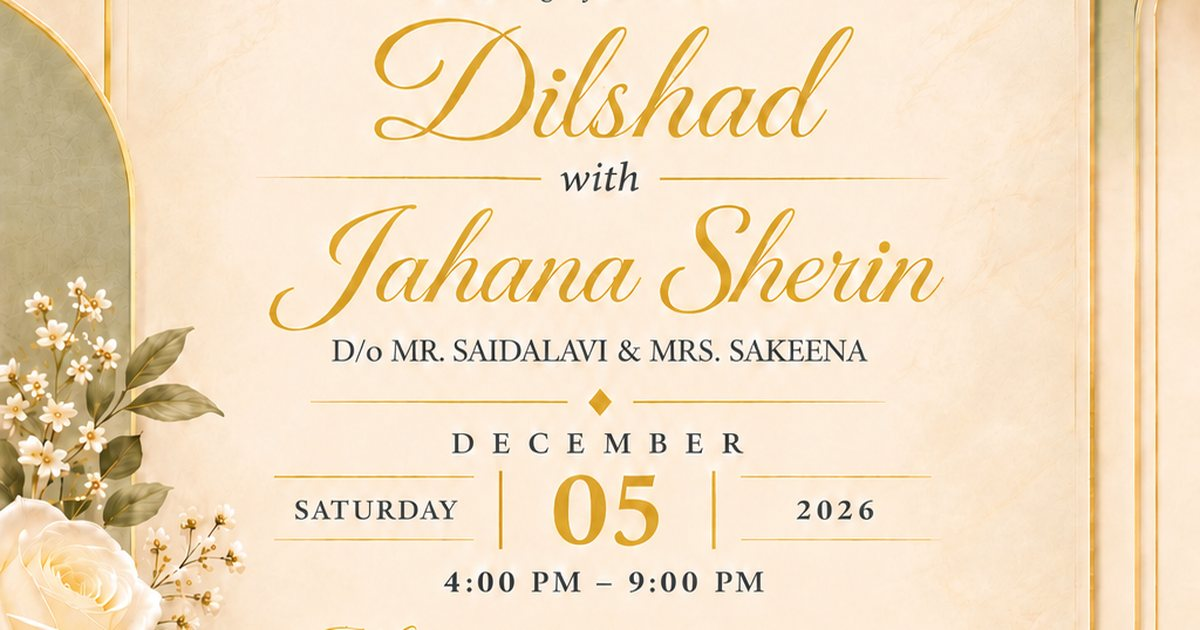
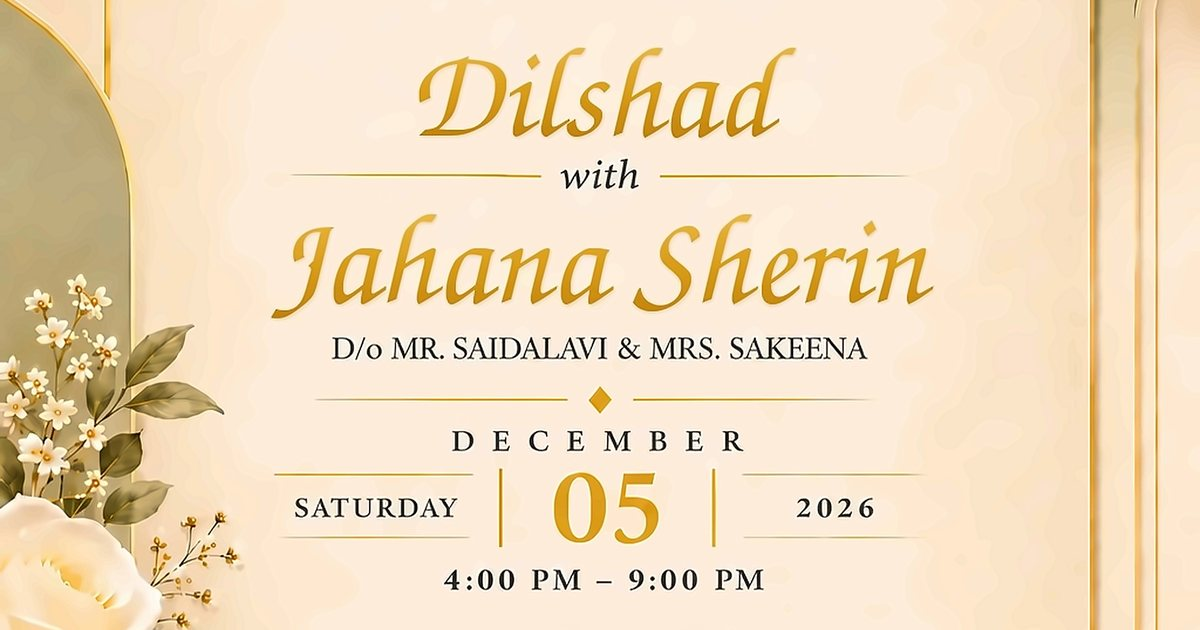
content updated

diff --git a/lib/wedding.ts b/lib/wedding.ts
@@ -17,10 +17,9 @@ export const wedding = {
     text: "Our Lord, grant us from among our wives and offspring comfort to our eyes and make us an example for the righteous.",
     reference: "Qur’an 25:74",
   },
-  request:
-    "request the honour of your presence, with family, at the marriage of our beloved son",
-  tagline: "Where two hearts become one",
-  blessing: "Your prayers and presence will make our joy complete.",
+  request: "joyfully invite you and your family, to celebrate the wedding of our dear son",
+  tagline: "Two souls, one journey",
+  blessing: "Your blessings and duas will make our day truly special.",
 
   event: {
     /** Indian Standard Time (UTC+05:30). */
@@ -65,7 +64,7 @@ export const calendarEndUtc = toCalendarUtc(wedding.event.end);
 
 export const calendarTitle = `Wedding of ${coupleLine}`;
 export const calendarLocation = `${wedding.venue.name}, ${wedding.venue.area}`;
-export const calendarDetails = `${wedding.groom.parents} request the honour of your presence, with family, at the marriage of ${wedding.groom.name} with ${wedding.bride.name}. Location: ${wedding.venue.mapsUrl}`;
+export const calendarDetails = `${wedding.groom.parents} joyfully invite you and your family to celebrate the wedding of ${wedding.groom.name} with ${wedding.bride.name}. Location: ${wedding.venue.mapsUrl}`;
 
 export const googleCalendarUrl =
   "https://calendar.google.com/calendar/render?" +
